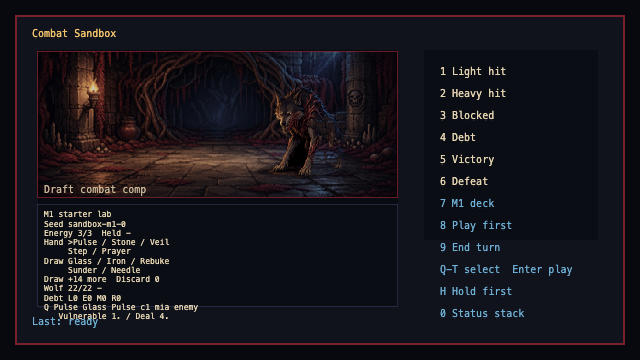
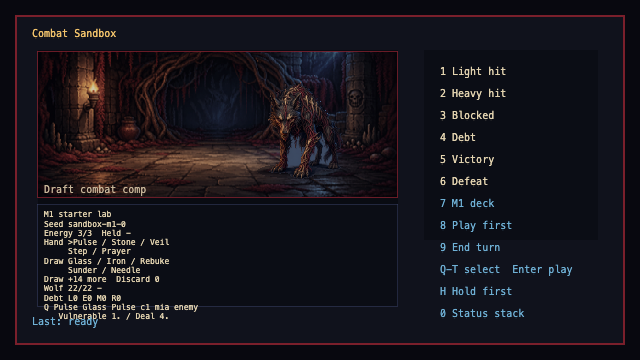
Add Rootbitten Wolf batch 02 candidate

Changed region(s): [[0.4062, 0.2444, 0.5312, 0.4889]]

diff --git a/tests/assetPipeline.test.ts b/tests/assetPipeline.test.ts
@@ -38,8 +38,8 @@ describe('asset production foundation', () => {
       expect(['in_game_previewed', 'approved', 'rejected']).toContain(asset.approvalState);
       expect(asset.title.length).toBeGreaterThan(0);
       expect(asset.reviewFocus.length).toBeGreaterThan(0);
-      expect(asset.rawSource).toMatch(new RegExp('^\\.curation/raw/underroot/batch-01/.+\\.png$'));
-      expect(asset.processedPath).toMatch(new RegExp('^public/assets/drafts/underroot/batch-01/.+\\.png$'));
+      expect(asset.rawSource).toMatch(new RegExp('^\\.curation/raw/underroot/batch-\\d+/.+\\.png$'));
+      expect(asset.processedPath).toMatch(new RegExp('^public/assets/drafts/underroot/batch-\\d+/.+\\.png$'));
       expect(existsSync(asset.rawSource!)).toBe(true);
       expect(existsSync(asset.processedPath!)).toBe(true);
       expect(asset.finalSize.w).toBeGreaterThan(0);
@@ -72,15 +72,15 @@ describe('asset production foundation', () => {
     expect(approved.find((asset) => asset.id === 'card.blood-edge.placeholder')?.humanEditNotes).toContain('tiny-crop review');
   });
 
-  it('tracks the wolf matte preview separately from the raw draft', () => {
+  it('tracks the active wolf preview separately from rejected cleanup attempts', () => {
     const manifest = readAssetManifest();
     const wolf = manifest.assets.find((asset) => asset.id === 'enemy.root-wolf.placeholder');
 
     expect(wolf?.approvalState).toBe('in_game_previewed');
-    expect(wolf?.processedPath).toBe('public/assets/drafts/underroot/batch-01/rootbitten-wolf-clean-preview-01.png');
-    expect(wolf?.matteOrMaskNotes).toContain('threshold 24');
-    expect(wolf?.matteOrMaskNotes).toContain('enclosed transparent holes are restored');
-    expect(wolf?.humanEditNotes).toContain('still not approved');
+    expect(wolf?.promptPath).toBe('.prompts/underroot/root-wolf-enemy-batch-02.txt');
+    expect(wolf?.processedPath).toBe('public/assets/drafts/underroot/batch-02/rootbitten-wolf-preview-01.png');
+    expect(wolf?.matteOrMaskNotes).toContain('tolerance 54');
+    expect(wolf?.humanEditNotes).toContain('six generated candidates');
   });
 });
 

diff --git a/tests/assetManifest.test.ts b/tests/assetManifest.test.ts
@@ -31,7 +31,7 @@ describe('asset manifest', () => {
       expect(asset.id).toMatch(/^[a-z0-9.-]+\.placeholder$/);
       expect(asset.title.length).toBeGreaterThan(0);
       expect(asset.reviewFocus.length).toBeGreaterThan(0);
-      expect(asset.previewPath).toMatch(/^\/assets\/drafts\/underroot\/batch-01\/.+\.png$/);
+      expect(asset.previewPath).toMatch(/^\/assets\/drafts\/underroot\/batch-\d+\/.+\.png$/);
       expect(Object.keys(asset).sort()).toEqual(['approvalGate', 'id', 'kind', 'previewPath', 'reviewFocus', 'status', 'title']);
     }
   });

diff --git a/tests/browser/dev-scenes.spec.ts b/tests/browser/dev-scenes.spec.ts
@@ -56,7 +56,7 @@ test('combat sandbox previews cues without rebuilding the shell', async ({ page 
     backgroundPath: '/assets/drafts/underroot/batch-01/underroot-combat-preview-01.png',
     backgroundApprovalState: 'approved',
     enemyId: 'enemy.root-wolf.placeholder',
-    enemyPath: '/assets/drafts/underroot/batch-01/rootbitten-wolf-clean-preview-01.png',
+    enemyPath: '/assets/drafts/underroot/batch-02/rootbitten-wolf-preview-01.png',
     enemyApprovalState: 'in_game_previewed',
     compositionGate: 'needs-review',
   });

diff --git a/.logs/m3-root-wolf-batch-02-candidate.md b/.logs/m3-root-wolf-batch-02-candidate.md
@@ -1,0 +1,33 @@
+# M3 Rootbitten Wolf Batch 02 Candidate
+
+Goal: replace the batch-01 wolf review candidate with a cleaner source that can
+plausibly pass a future approval review.
+
+## Generated
+
+- Source folder:
+  `/Users/davidraphael/.codex/generated_images/019dcb3b-2c5b-73c1-9ca6-ddf58be3f365`
+- Six images were generated from
+  `.prompts/underroot/root-wolf-enemy-batch-02.txt`.
+- Candidate 1 was selected because it best matched the brief:
+  full body, readable connected silhouette, flat blue-gray matte, no text.
+
+## Processed
+
+- Copied selected source to
+  `.curation/raw/underroot/batch-02/rootbitten-wolf-draft-01.png`.
+- Added `scripts/matte-flat-background.mjs` for edge-connected removal of the
+  flat blue-gray matte.
+- Processed preview:
+  `public/assets/drafts/underroot/batch-02/rootbitten-wolf-preview-01.png`.
+
+## Receipts
+
+- `.logs/root-wolf-batch-02-candidates.png` compares all generated candidates.
+- `.logs/root-wolf-batch-02-review.png` compares batch 01 and batch 02 on a
+  checkerboard and the approved combat background.
+
+## Decision
+
+Batch 02 replaces batch 01 as the active `in_game_previewed` wolf candidate.
+It is not approved and is not wired into gameplay.
